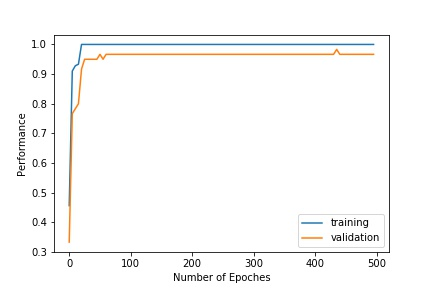
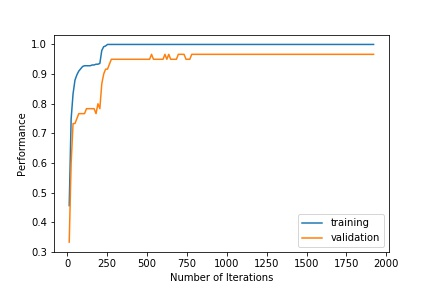
1

diff --git a/CSC411/Project_2/P2_Submission/deepfaces.py b/CSC411/Project_2/P2_Submission/deepfaces.py
@@ -257,7 +257,7 @@ def part10(plot = True,dim = 227):
     #use 3*227*227
     train_xy, validation_xy,test_xy = image_processing(model)
 
-    n_epoch = 500
+    n_epoch = 160
     batch_size = 32
     
     dtype_float = torch.FloatTensor
@@ -276,7 +276,7 @@ def part10(plot = True,dim = 227):
     validation_x = Variable(torch.from_numpy(validation_xy[:,:-1]), requires_grad=False).type(dtype_float)
     performance_train = []
     performance_validation = []
-    num_epoch = []
+    num_iter = []
     
     for epoch in range(n_epoch):
         for i, data in enumerate(dataloader):
@@ -290,8 +290,8 @@ def part10(plot = True,dim = 227):
             loss.backward()    # Compute the gradient
             optimizer.step()   # Use the gradient information to
         
-        if epoch % 5 ==0:
-            num_epoch.append(epoch)
+        if (epoch*ceil(train_xy.shape[0]/batch_size)+i) % 1 ==0:
+            num_iter.append(epoch*ceil(train_xy.shape[0]/batch_size)+i)
             y_pred_train_x = model.classifier(train_x).data.numpy()
             performance_train.append((np.mean(np.argmax(y_pred_train_x, 1) == train_xy[:,-1])))
             #print (np.mean(np.argmax(y_pred_train_x, 1) == train_xy[:,-1]))
@@ -300,9 +300,9 @@ def part10(plot = True,dim = 227):
             #print (np.mean(np.argmax(y_pred_validation_x, 1) == validation_xy[:,-1]))
         
     if plot==True:
-        plt.plot(num_epoch, performance_train,'-',num_epoch, performance_validation,'-')
+        plt.plot(num_iter, performance_train,'-',num_iter, performance_validation,'-')
         plt.legend(['training','validation'])
-        plt.xlabel('Number of Epoches')
+        plt.xlabel('Number of Iterations')
         plt.ylabel('Performance')
         plt.savefig('figures/part10f1.jpg')
         plt.show()
@@ -329,7 +329,7 @@ def part10_plus():
 if __name__ == "__main__":
     #Important Note: Please uncomment the following line when using an IDE!
     os.chdir(os.path.dirname(__file__))
-    #model = part10()
+    model = part10()
     #part10_plus()
     
 
